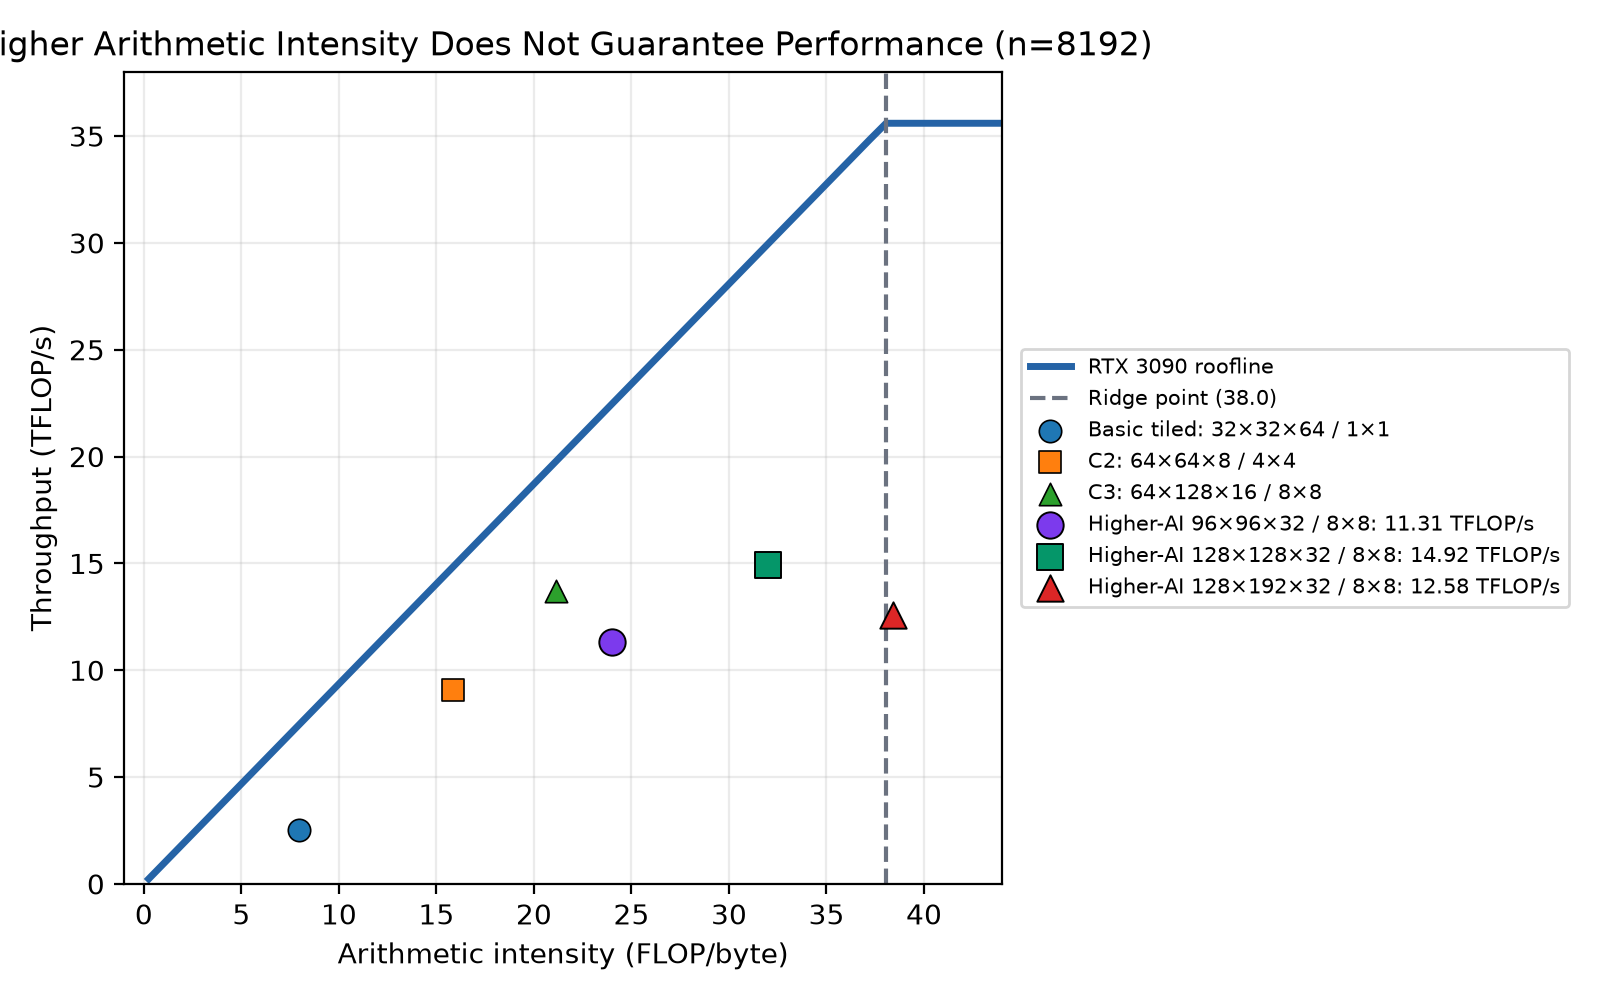
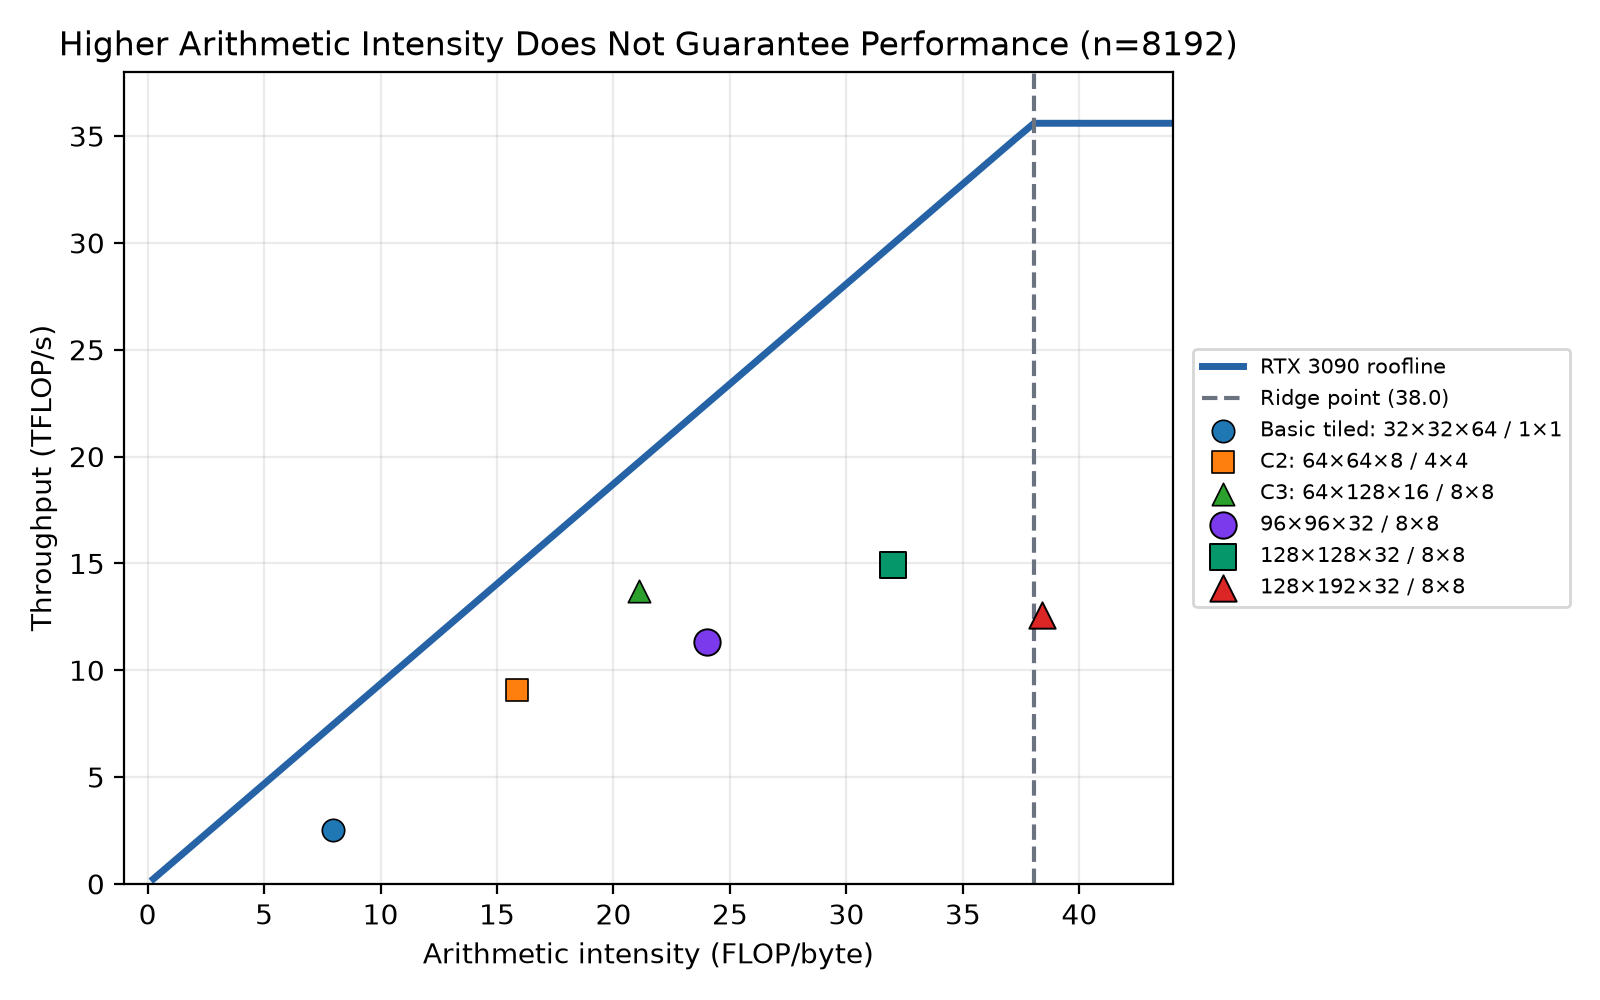
Simplify higher-AI plot legend

diff --git a/src/cs4630/plots.py b/src/cs4630/plots.py
@@ -885,7 +885,7 @@ def main():
             edgecolor="black",
             linewidth=0.7,
             zorder=4,
-            label=f"Higher-AI {label}: {throughput:.2f} TFLOP/s",
+            label=label,
         )
 
     matrix_size = higher_intensity_results[0][0]["size"]
